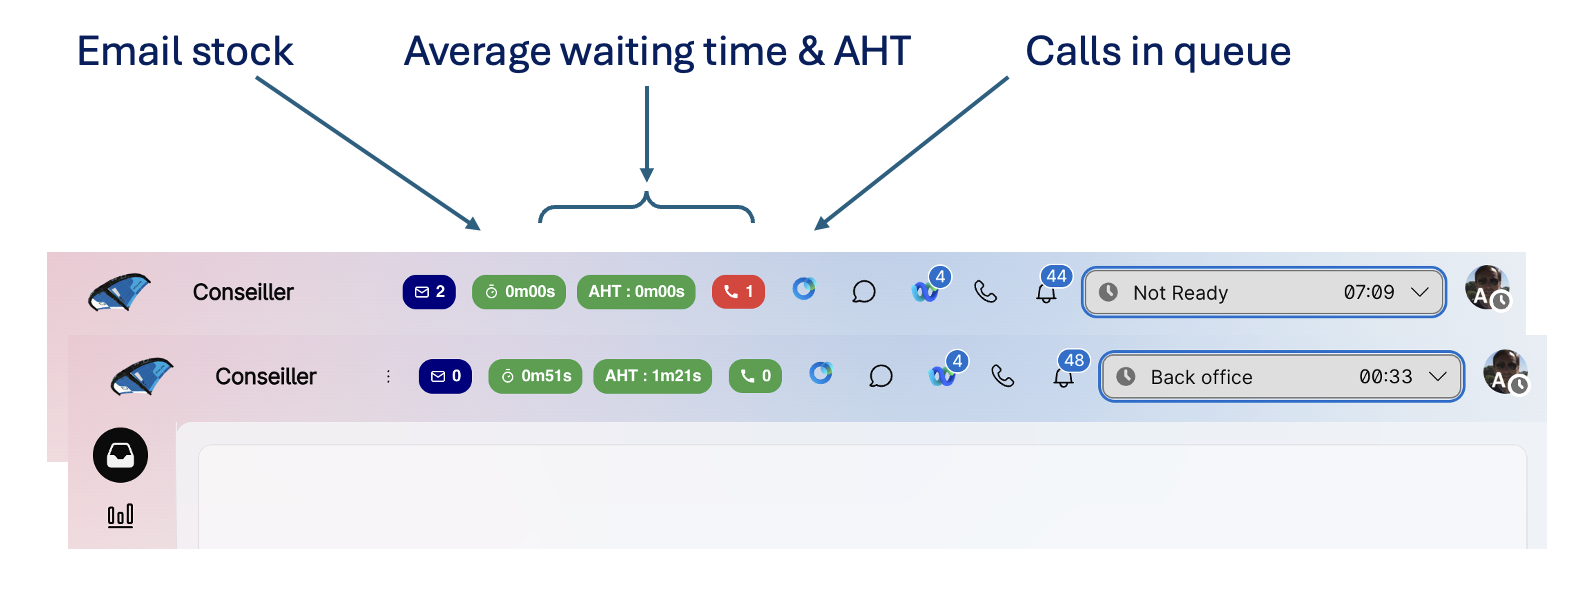
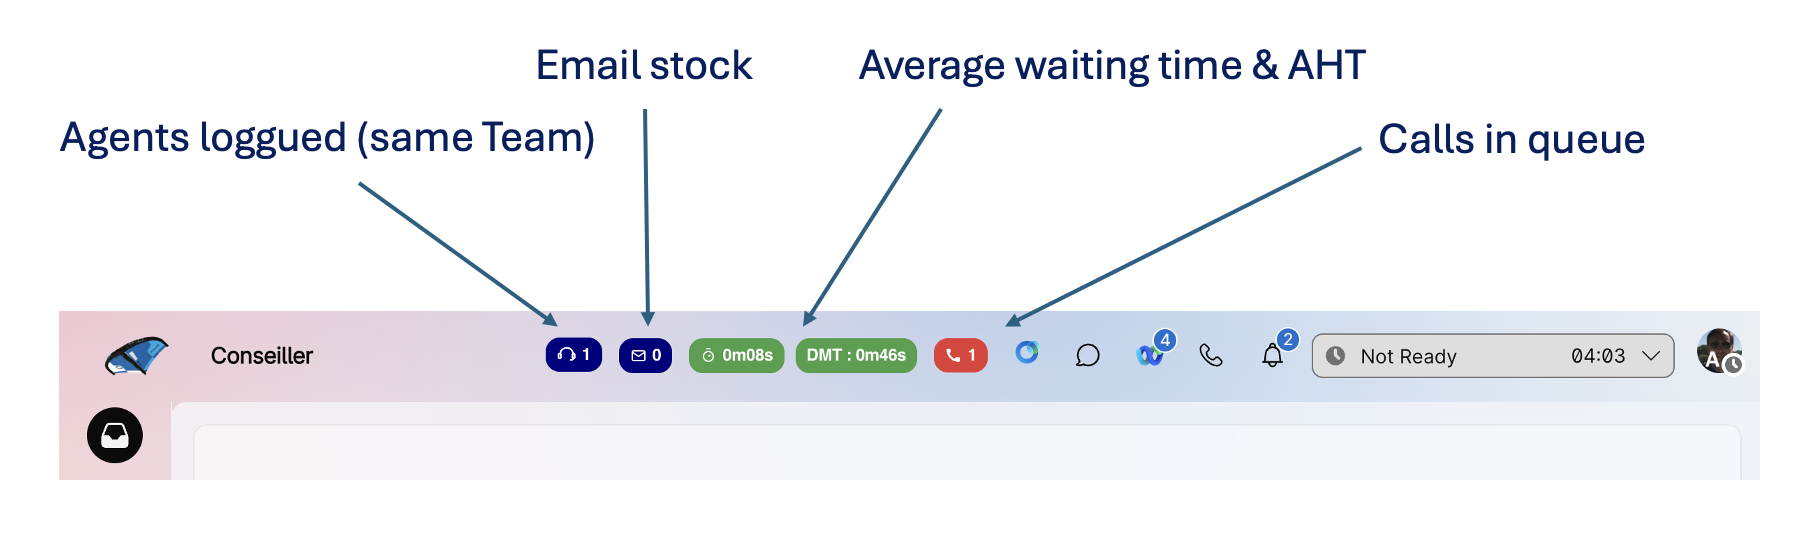
update doc

diff --git a/src/agentsconnected.js b/src/agentsconnected.js
@@ -1,0 +1,113 @@
+(function () {
+  const template = document.createElement("template");
+  template.innerHTML = `<div id="table-container"></div>`;
+
+  class AgentActivityName extends HTMLElement {
+    constructor() {
+        super();
+        this.attachShadow({ mode: "open" });
+        this.timeoutID = undefined;
+    }
+
+    connectedCallback() {
+      this.shadowRoot.appendChild(template.content.cloneNode(true));
+      var context = this.shadowRoot;
+      var org = this.orgId;
+      var dc = this.dc.slice(4);
+      var teamName = this.teamName;
+      var access_token = this.token;
+      GetAgentsConnectedForTheTeam({ token: access_token, team: this.teamName });
+
+      function GetAgentsConnectedForTheTeam(result) {
+        access_token = result.token;
+        teamName = result.team;
+
+        const myHeaders = new Headers();
+        myHeaders.append("Content-Type", "application/json");
+        myHeaders.append("Authorization", "Bearer " + access_token);
+        const currentTimeMs = Date.now().toString();
+        const raw = JSON.stringify({
+        query: `
+{
+    agentSession(
+    from: "1767874520000" 
+    to: "${currentTimeMs}"
+    filter: {
+        and: [
+            { isActive: { equals: true } }
+            { teamName: { equals: "${teamName}" } }
+        ]
+    }
+        aggregations: [
+            { field: "agentId", name: "AgentsConnectes", type: cardinality }
+        ]
+    ) {
+        agentSessions {
+            aggregation {
+                name
+                value
+            }
+        }
+    }
+}
+`,
+          variables: {},
+        });
+
+        const requestOptions = {
+          method: "POST",
+          headers: myHeaders,
+          body: raw,
+          redirect: "follow",
+        };
+
+        fetch(
+          "https://api.wxcc-"+dc+".cisco.com/search?orgId="+org, requestOptions)
+          .then((response) => response.text())
+          .then((result) => DisplayActivity(JSON.parse(result), context))
+          .catch((error) => console.log("[ACTIVITEAGENTSCONNECTES] - Error -> ", error));
+      }
+
+        function DisplayActivity(result, context) {
+            console.log("ACTIVITEAGENTSCONNECTES: result -> ", result);
+            const tableContainer = context.getElementById("table-container");
+
+            if (!result.data || !result.data.agentSession || !result.data.agentSession.agentSessions) {
+                // tableContainer.innerHTML = "<p>Rien retourné.</p>";
+                return;
+            }
+
+            const tasks = result.data.agentSession.agentSessions;
+            console.log("ACTIVITEAGENTSCONNECTES: Records -> ", tasks);
+            tableContainer.innerHTML = generateTaskTable(tasks);
+        }
+
+        function generateTaskTable(agentSessions) {
+            const value = agentSessions?.[0]?.aggregation?.[0]?.value ?? 0;
+            let table = `<span style="background:#000080; color:white; padding:2px 8px; border-radius:10px; font-family:Roboto, sans-serif; font-size:12px; font-weight:bold; display:inline-flex; align-items:center; gap:4px;">
+    <svg width="14" height="14" viewBox="0 0 24 24" fill="none" stroke="white" stroke-width="2" stroke-linecap="round" stroke-linejoin="round" xmlns="http://www.w3.org/2000/svg">
+      <path d="M4 12a8 8 0 0 1 16 0" />
+      <rect x="2" y="11" width="3" height="6" rx="1.5" />
+      <rect x="19" y="11" width="3" height="6" rx="1.5" />
+      <path d="M19 15c2 1 2 3-1 4" />
+      <circle cx="17" cy="19" r="1" fill="white" stroke="none" />
+    </svg>${value}</span>`;
+            return table;
+        }
+
+        // Rafraîchissement toutes les 5 secondes
+        this.intervalID = setInterval(() => {
+            GetAgentsConnectedForTheTeam({ token: access_token, team: this.teamName });
+        }, 5000);
+    }
+
+    disconnectedCallback() {
+        if (this.intervalID) {
+            clearInterval(this.intervalID);
+        }
+    }  
+
+  }
+
+  window.customElements.define("agents-connectes", AgentActivityName);
+})();

diff --git a/Readme.MD b/Readme.MD
@@ -315,6 +315,86 @@ Add the following code and adjust the JavaScript file path to correspond with yo
 
 Note : not all the properties are used in the javascript code, feel free to remove unused ones.
 
+
+# "Agents Loggued In" widget
+
+## What the javascript file does
+
+1/ The javascript dynamically retrieves information coming from the Desktop Layout JSON file :
+- agent token
+- Webex Contact Center datacenter region
+- Webex orgid
+- Agent Team Name
+
+
+```
+var org = this.orgId;
+var dc = this.dc.slice(4); // you will get "eu2" from "prodeu2" for instance
+var access_token = this.token;
+var teamName = this.teamName;
+
+```
+
+2/ The 4 variables will be employed to execute the Webex Contact Center REST API via the "Search" endpoint.
+
+The Search endpoint relies on a GraphQL query to retrieve all agents loggued into the Agent Desktop with the same team.
+
+```
+{
+    agentSession(
+    from: "1767874520000" 
+    to: "${currentTimeMs}"
+    filter: {
+        and: [
+            { isActive: { equals: true } }
+            { teamName: { equals: "${teamName}" } }
+        ]
+    }
+        aggregations: [
+            { field: "agentId", name: "AgentsConnectes", type: cardinality }
+        ]
+    ) {
+        agentSessions {
+            aggregation {
+                name
+                value
+            }
+        }
+    }
+}
+```
+
+4/ Refresh the query every 5 seconds
+
+```
+    this.intervalID = setInterval(() => {
+        GetCallsInQueue({ token: access_token });
+    }, 5000);
+```
+
+## Edit your Desktop Layout JSON file
+
+To utilize it within the Agent Desktop, it is necessary to reference your web component in the header section of your Desktop Layout JSON file.
+Add the following code and adjust the JavaScript file path to correspond with your web server.
+
+```
+    "area": {
+    "advancedHeader": [
+        ...
+        {
+            "comp": "agents-connectes",
+            "script": "https://yourwebserver.com/agentconnected.js",
+            "properties": {
+					      "token": "$STORE.auth.accessToken",
+                "darkmode": "$STORE.app.darkMode",
+					      "orgId": "$STORE.agent.orgId",
+					      "dc": "$STORE.app.datacenter",
+                "teamName": "$STORE.agent.teamName"
+            }
+        },
+      ...
+```
+
 # Disclaimer
 
 This archive is for educational and research purposes.
